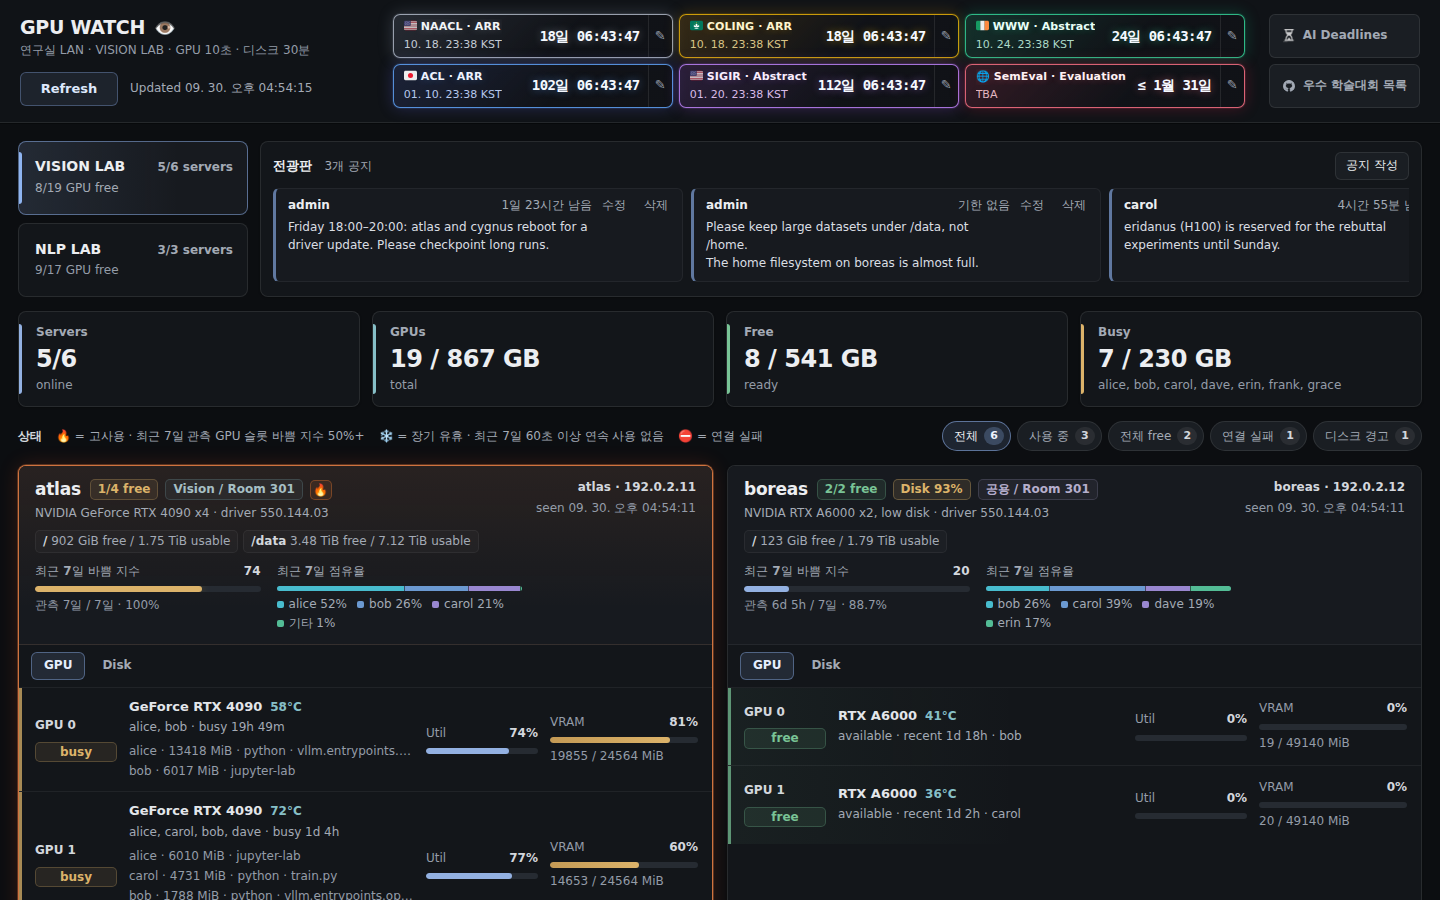
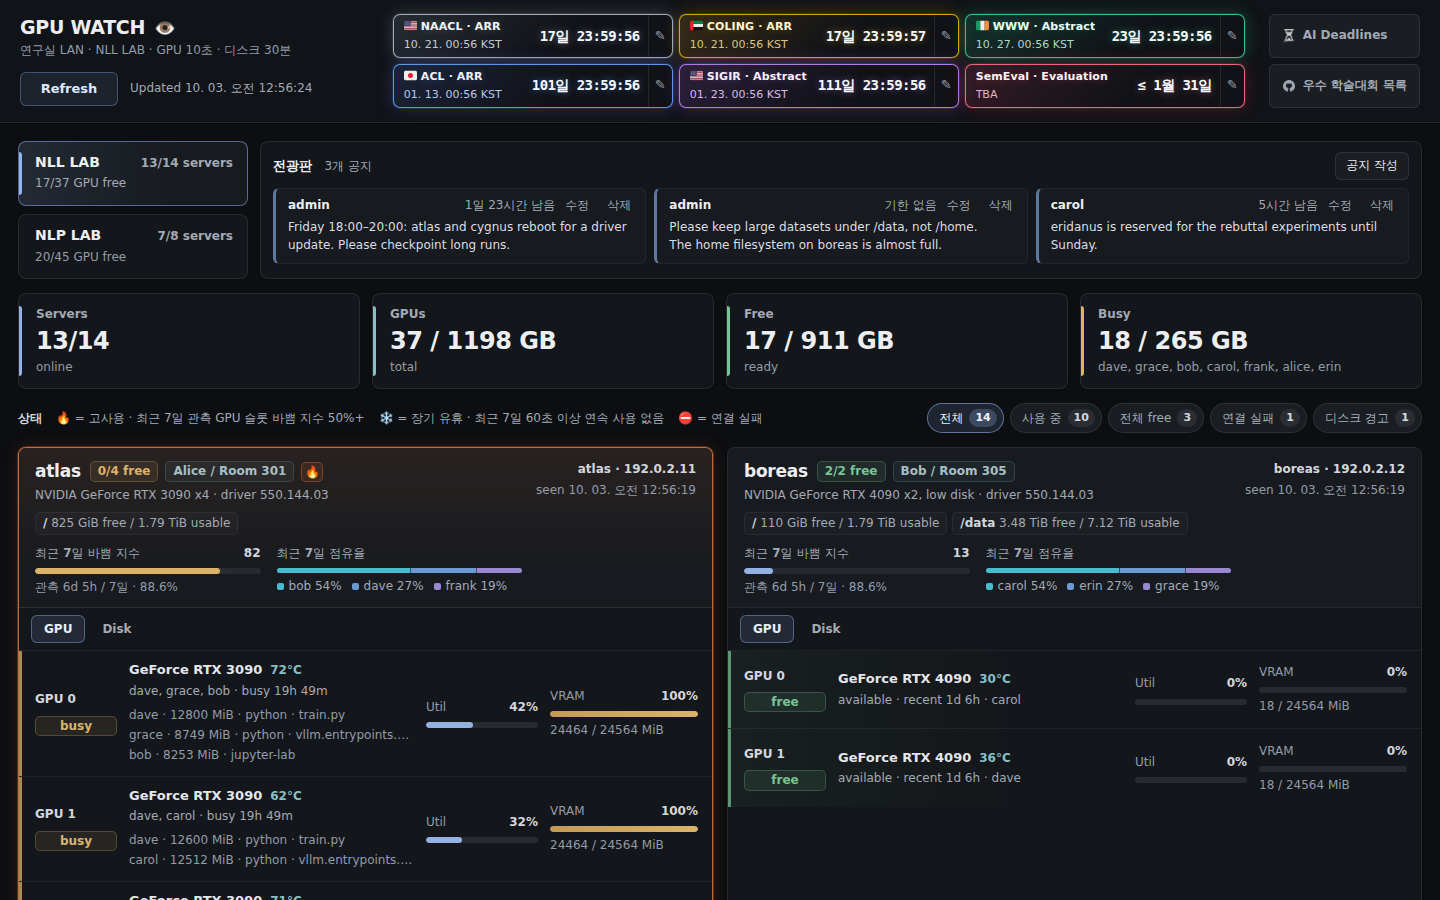
Polish layout at tablet/phone widths and refresh the five-language README (#1)
* Polish dashboard layout at tablet and phone widths

- Notice cards share the board width before scrolling, so a third
  notice is no longer clipped mid-word on wide screens; on desktop
  the message uses the full card width.
- Narrow notice cards wrap the expiry under the author instead of
  splitting the author name.
- 761-980px: summary cards use a 2x2 grid so values do not break
  before their unit.
- <=760px: hourly candle-chart axis labels scale up in steps so they
  stay readable.

CSS only; no behavior, wording, or data changes.

Claude-Session: https://claude.ai/code/session_011di7PSesQeNe59E1jTCL5G

* Refresh README in all five languages

- Add project badges (license, Python, dependencies, build step).
- Document scripts/admin-passphrase.py rotate for changing the PIN.
- List every owner_type badge style the frontend supports.
- Clarify that collect_docker_usage defaults on only when lab is nll.
- Replace the v2 screenshot with the current UI on the bundled
  fictional inventory.

Claude-Session: https://claude.ai/code/session_011di7PSesQeNe59E1jTCL5G

* Prevent mobile chart unit overlap and clarify reviewed documentation

---------

diff --git a/static/styles.css b/static/styles.css
@@ -343,11 +343,14 @@ main {
   line-height: 1.6;
 }
 
+/* Cards share the board width before the row starts to scroll, so a third
+   notice is not clipped mid-word on wide screens. */
 .notice-item {
   position: relative;
-  flex: 0 0 min(410px, 76vw);
+  flex: 1 0 min(360px, 76vw);
   min-width: 240px;
-  padding: 8px 90px 9px 12px;
+  max-width: 560px;
+  padding: 8px 12px 9px;
   border: 1px solid var(--line-soft);
   border-left: 3px solid rgba(var(--accent-rgb), 0.62);
   border-radius: var(--radius-control);
@@ -361,6 +364,8 @@ main {
   justify-content: space-between;
   gap: 8px;
   margin-bottom: 4px;
+  /* Room for the edit/delete buttons; the message below uses the full width. */
+  padding-right: 78px;
 }
 
 .notice-item-head strong {
@@ -2841,6 +2846,14 @@ main {
   }
 }
 
+/* Four summary cards are too narrow at tablet widths; "37 / 1198 GB" would
+   break before its unit. Use the same 2 × 2 grid as phones in landscape. */
+@media (min-width: 761px) and (max-width: 980px) {
+  .summary-grid {
+    grid-template-columns: repeat(2, minmax(0, 1fr));
+  }
+}
+
 @media (min-width: 761px) and (max-width: 1100px) {
   .lab-pulse {
     grid-template-columns: minmax(230px, 0.62fr) minmax(420px, 1fr);
@@ -2917,6 +2930,20 @@ main {
 
   .pulse-chart {
     height: 82px;
+    overflow: visible;
+  }
+
+  /* The candle chart keeps its 720-unit viewBox, so its axis text shrinks
+     with the screen. Scale the label size up in steps to stay readable;
+     overflow: visible lets wider labels use the panel padding. Place GB
+     over the plot start so it cannot overlap the enlarged top axis value. */
+  .pulse-axis-label,
+  .pulse-axis-unit {
+    font-size: 13px;
+  }
+
+  .pulse-axis-unit {
+    transform: translate(52px, -5px);
   }
 
   .section-title {
@@ -3006,6 +3033,19 @@ main {
 
   .notice-board {
     flex: 0 0 auto;
+  }
+
+  /* 44px touch targets reach the message, so keep it clear of them. */
+  .notice-item {
+    padding-right: 90px;
+  }
+
+  /* On narrow cards the expiry moves under the author instead of splitting
+     the author name mid-word. */
+  .notice-item-head {
+    flex-wrap: wrap;
+    row-gap: 0;
+    padding-right: 0;
   }
 
   .host-grid {
@@ -3102,7 +3142,27 @@ main {
   }
 }
 
+@media (max-width: 600px) {
+  .pulse-axis-label,
+  .pulse-axis-unit {
+    font-size: 18px;
+  }
+
+  .pulse-axis-unit {
+    transform: translate(52px, -8px);
+  }
+}
+
 @media (max-width: 460px) {
+  .pulse-axis-label,
+  .pulse-axis-unit {
+    font-size: 26px;
+  }
+
+  .pulse-axis-unit {
+    transform: translate(52px, -14px);
+  }
+
   .lab-tab {
     width: 100%;
     min-width: 0;

diff --git a/README.ja.md b/README.ja.md
@@ -2,6 +2,8 @@
 
 研究室で共有する GPU サーバーのための、軽量でエージェント不要のダッシュボードです。いま空いている GPU、使用中の GPU を使っている人、残りのディスク容量がひと目でわかります。データは通常の SSH だけで収集します。
 
+[![License: MIT](https://img.shields.io/badge/license-MIT-blue.svg)](LICENSE) ![Python 3.12](https://img.shields.io/badge/python-3.12-3776ab.svg) ![Dependencies: standard library only](https://img.shields.io/badge/dependencies-stdlib%20only-success.svg) ![Frontend: no build step](https://img.shields.io/badge/frontend-no%20build%20step-informational.svg)
+
 **v2.5** · 2026-10-03 リリース · GPT-6 Astra Ultra · [リリース検証](RELEASE_VALIDATION.md)
 
 [English](README.md) | [简体中文](README.zh-CN.md) | [繁體中文](README.zh-HK.md) | **日本語** | [한국어](README.ko.md)
@@ -133,7 +135,7 @@ python3 scripts/admin-passphrase.py ensure
 python3 server.py --host 127.0.0.1 --port 8787
 ```
 
-<http://127.0.0.1:8787/> を開きます。管理者 PIN は安全な場所に保管し、平文のファイルは削除してください。
+<http://127.0.0.1:8787/> を開きます。管理者 PIN は安全な場所に保管し、平文のファイルは削除してください。後から新しい 4 桁の PIN に変更するには `python3 scripts/admin-passphrase.py rotate` を実行します。
 
 既定ではループバックのクライアントしか接続できません。LAN 内のほかのマシンから見る場合は、許可する対象を明示してください。以下のアドレスは例です。
 
@@ -184,9 +186,9 @@ python3 server.py --host 0.0.0.0 --port 8787
 | `ssh_password_file`、`ssh_options` | パスワード認証。パスワードファイルは `secrets/` の下に置き、実行時に読み込みます。 |
 | `display_ip` | エイリアスで接続するホストのカードに表示する IP。有効な IP アドレスでなければなりません。 |
 | `expected_gpu_count` | サーバーが DOWN のあいだも表示し続ける GPU の枠の数 |
-| `note`、`owner`、`owner_type`、`location` | カードに表示する文言とバッジのスタイル（`assigned` または `shared`） |
+| `note`、`owner`、`owner_type`、`location` | カードに表示する文言とバッジのスタイル。`assigned` または `shared`（`owner` が `공용` の場合も shared 扱い）のほか、研究室固有の `physical_ai_2` と `app_serving` があります |
 | `disk_user_paths` | 追加で測定するユーザー別のパス。`{ "user": …, "path": … }` の形式です。 |
-| `collect_docker_usage` | `docker ps --size` で Docker の書き込みレイヤーも測定します。既定で有効なのは `nll` 研究室のホストだけです。 |
+| `collect_docker_usage` | 通常のプローブで `docker ps --size` により Docker の書き込みレイヤーも測定します。既定で有効なのは `lab` が `nll` のホストだけです。ほかの研究室では明示的に設定してください。`privileged_disk_helper` はこのオプションに関係なく、固定の方針に従って Docker 使用量を常に収集します。 |
 | `privileged_disk_helper` | インストールした root ヘルパーでディスク使用量を測定します。`disk_user_paths` とは併用できません。 |
 
 このほかのトップレベルの設定には、プローブのタイムアウト、`collector_workers`、🔥 と ❄ のバッジの基準を決める `activity_policy`、保存期間があります。

diff --git a/README.ko.md b/README.ko.md
@@ -2,6 +2,8 @@
 
 연구실이 함께 쓰는 GPU 서버를 위한 가볍고 에이전트가 필요 없는 대시보드입니다. 지금 비어 있는 GPU, 사용 중인 GPU의 사용자, 남은 디스크 용량을 보여 줍니다. 데이터는 일반 SSH로만 수집합니다.
 
+[![License: MIT](https://img.shields.io/badge/license-MIT-blue.svg)](LICENSE) ![Python 3.12](https://img.shields.io/badge/python-3.12-3776ab.svg) ![Dependencies: standard library only](https://img.shields.io/badge/dependencies-stdlib%20only-success.svg) ![Frontend: no build step](https://img.shields.io/badge/frontend-no%20build%20step-informational.svg)
+
 **v2.5** · 2026-10-03 릴리스 · GPT-6 Astra Ultra · [릴리스 검증](RELEASE_VALIDATION.md)
 
 [English](README.md) | [简体中文](README.zh-CN.md) | [繁體中文](README.zh-HK.md) | [日本語](README.ja.md) | **한국어**
@@ -133,7 +135,7 @@ python3 scripts/admin-passphrase.py ensure
 python3 server.py --host 127.0.0.1 --port 8787
 ```
 
-<http://127.0.0.1:8787/>을 엽니다. 관리자 PIN은 안전한 곳에 보관하고 평문 파일은 지우세요.
+<http://127.0.0.1:8787/>을 엽니다. 관리자 PIN은 안전한 곳에 보관하고 평문 파일은 지우세요. 나중에 새 4자리 PIN으로 바꾸려면 `python3 scripts/admin-passphrase.py rotate`를 실행합니다.
 
 기본값으로는 루프백 클라이언트만 접속할 수 있습니다. LAN의 다른 컴퓨터에서 보려면 허용할 대상을 명시하세요. 아래 주소는 예시입니다.
 
@@ -184,9 +186,9 @@ python3 server.py --host 0.0.0.0 --port 8787
 | `ssh_password_file`, `ssh_options` | 비밀번호 로그인. 비밀번호 파일은 `secrets/` 아래에 두며 실행 중에 읽습니다. |
 | `display_ip` | 별칭으로 접속하는 호스트의 카드에 표시할 IP. 올바른 IP 주소여야 합니다. |
 | `expected_gpu_count` | 서버가 DOWN일 때도 계속 보여 줄 GPU 칸 수 |
-| `note`, `owner`, `owner_type`, `location` | 카드에 표시할 문구와 배지 스타일(`assigned` 또는 `shared`) |
+| `note`, `owner`, `owner_type`, `location` | 카드에 표시할 문구와 배지 스타일. `assigned` 또는 `shared`(`owner`가 `공용`이어도 shared로 표시)와 연구실 전용 `physical_ai_2`, `app_serving` 스타일이 있습니다 |
 | `disk_user_paths` | 추가로 측정할 사용자별 경로. `{ "user": …, "path": … }` 형식입니다. |
-| `collect_docker_usage` | `docker ps --size`로 Docker 쓰기 계층도 측정합니다. 기본으로는 `nll` 연구실의 호스트에서만 켜집니다. |
+| `collect_docker_usage` | 일반 probe에서 `docker ps --size`로 Docker 쓰기 계층도 측정합니다. 기본으로는 `lab`이 `nll`인 호스트에서만 켜지며, 다른 연구실에서는 직접 설정합니다. `privileged_disk_helper`는 이 옵션과 무관하게 고정 정책에 따라 Docker 사용량을 항상 함께 수집합니다. |
 | `privileged_disk_helper` | 설치한 root helper로 디스크 사용량을 측정합니다. `disk_user_paths`와 함께 쓸 수 없습니다. |
 
 그 밖의 최상위 설정으로는 프로브 제한 시간, `collector_workers`, 🔥·❄ 배지 기준을 정하는 `activity_policy`, 보존 기간이 있습니다.

diff --git a/README.zh-HK.md b/README.zh-HK.md
@@ -2,6 +2,8 @@
 
 一個輕量、無需代理程式的儀表板，專為實驗室共用的 GPU 伺服器而設。它會顯示哪些 GPU 現時空閒、忙碌的 GPU 由誰使用，以及磁碟尚餘多少空間。所有數據只透過普通 SSH 收集。
 
+[![License: MIT](https://img.shields.io/badge/license-MIT-blue.svg)](LICENSE) ![Python 3.12](https://img.shields.io/badge/python-3.12-3776ab.svg) ![Dependencies: standard library only](https://img.shields.io/badge/dependencies-stdlib%20only-success.svg) ![Frontend: no build step](https://img.shields.io/badge/frontend-no%20build%20step-informational.svg)
+
 **v2.5** · 2026-10-03 發佈 · GPT-6 Astra Ultra · [發佈驗證](RELEASE_VALIDATION.md)
 
 [English](README.md) | [简体中文](README.zh-CN.md) | **繁體中文** | [日本語](README.ja.md) | [한국어](README.ko.md)
@@ -133,7 +135,7 @@ python3 scripts/admin-passphrase.py ensure
 python3 server.py --host 127.0.0.1 --port 8787
 ```
 
-開啟 <http://127.0.0.1:8787/>。請把管理員 PIN 存放在安全的地方，然後刪除純文字檔案。
+開啟 <http://127.0.0.1:8787/>。請把管理員 PIN 存放在安全的地方，然後刪除純文字檔案。日後如需設定新的 4 位數 PIN，請執行 `python3 scripts/admin-passphrase.py rotate`。
 
 預設只容許本機回送（loopback）用戶端連線。如要讓區域網絡內的其他電腦瀏覽，請明確列出容許的對象。以下地址只作示例。
 
@@ -184,9 +186,9 @@ python3 server.py --host 0.0.0.0 --port 8787
 | `ssh_password_file`、`ssh_options` | 密碼登入。密碼檔案放在 `secrets/` 之下，於執行時讀取。 |
 | `display_ip` | 以別名連線的主機在卡片上顯示的 IP。必須是有效的 IP 地址。 |
 | `expected_gpu_count` | 伺服器處於 DOWN 狀態時仍然顯示的 GPU 格數 |
-| `note`、`owner`、`owner_type`、`location` | 卡片上的文字及徽章樣式（`assigned` 或 `shared`） |
+| `note`、`owner`、`owner_type`、`location` | 卡片上的文字及徽章樣式：`assigned` 或 `shared`（`owner` 為 `공용` 時亦視作 shared），另有實驗室專用的 `physical_ai_2` 及 `app_serving` 樣式 |
 | `disk_user_paths` | 額外量度的按用戶路徑，格式為 `{ "user": …, "path": … }` |
-| `collect_docker_usage` | 同時以 `docker ps --size` 量度 Docker 可寫層。預設只為 `nll` 實驗室的主機啟用。 |
+| `collect_docker_usage` | 一般探針同時以 `docker ps --size` 量度 Docker 可寫層。預設只為 `lab` 是 `nll` 的主機啟用；其他實驗室請明確設定。`privileged_disk_helper` 按固定政策一律收集 Docker 用量，不受此選項影響。 |
 | `privileged_disk_helper` | 透過已安裝的 root 輔助程式量度磁碟用量。不可與 `disk_user_paths` 同時使用。 |
 
 其他頂層設定包括探測逾時、`collector_workers`、決定 🔥 及 ❄ 徽章門檻的 `activity_policy`，以及保留期限：

diff --git a/README.zh-CN.md b/README.zh-CN.md
@@ -2,6 +2,8 @@
 
 一款轻量、无需代理的仪表盘，专为实验室共享的 GPU 服务器设计。它能显示哪些 GPU 当前空闲、忙碌的 GPU 由谁在用，以及磁盘还剩多少空间。所有数据仅通过普通 SSH 采集。
 
+[![License: MIT](https://img.shields.io/badge/license-MIT-blue.svg)](LICENSE) ![Python 3.12](https://img.shields.io/badge/python-3.12-3776ab.svg) ![Dependencies: standard library only](https://img.shields.io/badge/dependencies-stdlib%20only-success.svg) ![Frontend: no build step](https://img.shields.io/badge/frontend-no%20build%20step-informational.svg)
+
 **v2.5** · 2026-10-03 发布 · GPT-6 Astra Ultra · [发布验证](RELEASE_VALIDATION.md)
 
 [English](README.md) | **简体中文** | [繁體中文](README.zh-HK.md) | [日本語](README.ja.md) | [한국어](README.ko.md)
@@ -133,7 +135,7 @@ python3 scripts/admin-passphrase.py ensure
 python3 server.py --host 127.0.0.1 --port 8787
 ```
 
-打开 <http://127.0.0.1:8787/>。请把管理员 PIN 保存在安全的地方，然后删除明文文件。
+打开 <http://127.0.0.1:8787/>。请把管理员 PIN 保存在安全的地方，然后删除明文文件。以后如需设置新的 4 位 PIN，请运行 `python3 scripts/admin-passphrase.py rotate`。
 
 默认只允许本机回环地址访问。如需让局域网内的其他机器访问，请明确列出允许的地址。下面的地址仅为示例。
 
@@ -184,9 +186,9 @@ python3 server.py --host 0.0.0.0 --port 8787
 | `ssh_password_file`、`ssh_options` | 密码登录。密码文件放在 `secrets/` 下，运行时读取。 |
 | `display_ip` | 通过别名连接的主机在卡片上显示的 IP。必须是有效的 IP 地址。 |
 | `expected_gpu_count` | 服务器处于 DOWN 状态时仍然显示的 GPU 格数 |
-| `note`、`owner`、`owner_type`、`location` | 卡片上的文字和徽章样式（`assigned` 或 `shared`） |
+| `note`、`owner`、`owner_type`、`location` | 卡片上的文字和徽章样式：`assigned` 或 `shared`（`owner` 为 `공용` 时也视为 shared），另有实验室专用的 `physical_ai_2` 和 `app_serving` 样式 |
 | `disk_user_paths` | 额外测量的按用户路径，格式为 `{ "user": …, "path": … }` |
-| `collect_docker_usage` | 同时用 `docker ps --size` 测量 Docker 可写层。默认仅对 `nll` 实验室的主机开启。 |
+| `collect_docker_usage` | 普通探针同时用 `docker ps --size` 测量 Docker 可写层。默认仅对 `lab` 为 `nll` 的主机开启；其他实验室请显式设置。`privileged_disk_helper` 按固定策略始终采集 Docker 用量，不受此选项影响。 |
 | `privileged_disk_helper` | 通过已安装的 root 助手测量磁盘用量。不能与 `disk_user_paths` 同时使用。 |
 
 其他顶层设置包括探测超时、`collector_workers`、决定 🔥 和 ❄ 徽章阈值的 `activity_policy`，以及保留期限：

diff --git a/README.md b/README.md
@@ -2,6 +2,8 @@
 
 A lightweight, agentless dashboard for the GPU servers a research lab shares. It shows which GPUs are free right now, who is using the busy ones, and how much disk space is left. Data is collected over plain SSH.
 
+[![License: MIT](https://img.shields.io/badge/license-MIT-blue.svg)](LICENSE) ![Python 3.12](https://img.shields.io/badge/python-3.12-3776ab.svg) ![Dependencies: standard library only](https://img.shields.io/badge/dependencies-stdlib%20only-success.svg) ![Frontend: no build step](https://img.shields.io/badge/frontend-no%20build%20step-informational.svg)
+
 **v2.5** · released 2026-10-03 · GPT-6 Astra Ultra · [release validation](RELEASE_VALIDATION.md)
 
 **English** | [简体中文](README.zh-CN.md) | [繁體中文](README.zh-HK.md) | [日本語](README.ja.md) | [한국어](README.ko.md)
@@ -133,7 +135,7 @@ python3 scripts/admin-passphrase.py ensure
 python3 server.py --host 127.0.0.1 --port 8787
 ```
 
-Open <http://127.0.0.1:8787/>. Store the admin PIN somewhere safe and delete the plaintext file.
+Open <http://127.0.0.1:8787/>. Store the admin PIN somewhere safe and delete the plaintext file. To set a new four-digit PIN later, run `python3 scripts/admin-passphrase.py rotate`.
 
 By default, only loopback clients are allowed. To serve other machines on your LAN, list them explicitly. The addresses below are examples.
 
@@ -184,9 +186,9 @@ The bundled `hosts.json` describes a fictional lab. Replace it with your own ser
 | `ssh_password_file`, `ssh_options` | Password-based login. The password file sits under `secrets/` and is read at runtime. |
 | `display_ip` | The IP shown on the card for alias-based hosts. It must be a valid IP address. |
 | `expected_gpu_count` | Number of GPU slots to keep showing while the server is down |
-| `note`, `owner`, `owner_type`, `location` | Card text and badge style (`assigned` or `shared`) |
+| `note`, `owner`, `owner_type`, `location` | Card text and badge style: `assigned` or `shared` (an owner of `공용` also counts as shared), plus the lab-specific `physical_ai_2` and `app_serving` styles |
 | `disk_user_paths` | Extra per-user paths to measure, as `{ "user": …, "path": … }` |
-| `collect_docker_usage` | Also measure Docker writable layers with `docker ps --size`. On by default only for hosts in the `nll` lab. |
+| `collect_docker_usage` | For the normal probe, also measure Docker writable layers with `docker ps --size`. On by default only when `lab` is `nll`; set it explicitly for other labs. `privileged_disk_helper` always includes Docker usage under its fixed policy, independently of this option. |
 | `privileged_disk_helper` | Measure disk usage through the installed root helper. Cannot be combined with `disk_user_paths`. |
 
 Other top-level settings cover probe timeouts, `collector_workers`, the `activity_policy` thresholds for the 🔥 and ❄ badges, and retention:
